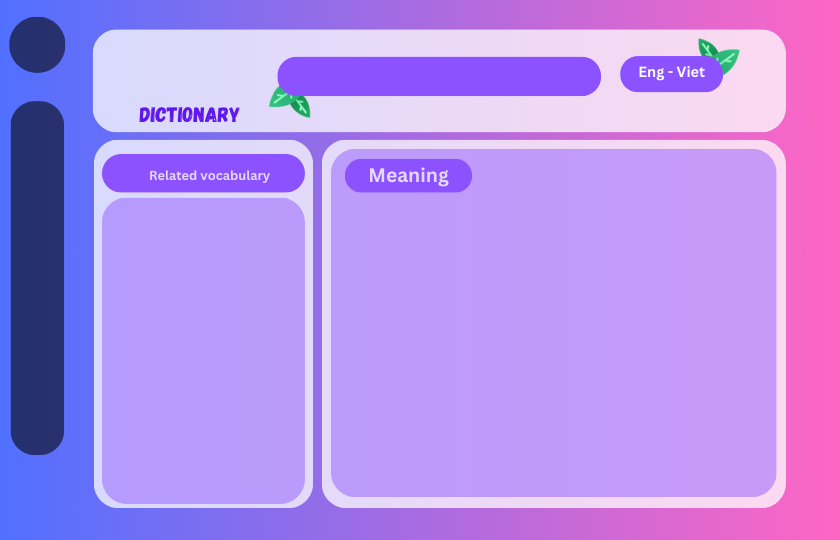
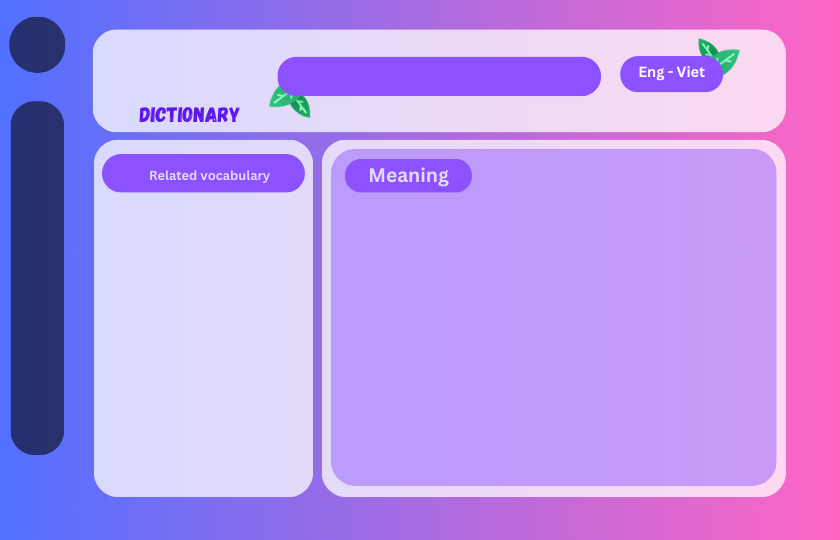
update listView

Changed region(s): [[0.0929, 0.3556, 0.9595, 0.9481]]

diff --git a/src/main/resources/application.css b/src/main/resources/application.css
@@ -162,3 +162,74 @@
 .translate_button:hover{
     -fx-background-color:#0099FF
 }
+/*------------------------list view------------------------------*/
+.list-view {
+    -fx-background-radius: 10; /* Bo tròn ở 4 góc */
+}
+
+.list-cell {
+    -fx-control-inner-background: lavender; /* Màu nền của mỗi cell trong ListView */
+    -fx-background-color:#CC99CC;
+    -fx-background-radius: 5 0 0 5; /* Bo tròn bên trái, giữ nguyên bên phải */
+}
+
+.list-cell:hover {
+    -fx-background-color: #FF9999; /* Màu nền khi di chuột qua mỗi cell */
+}
+
+.list-cell:filled:selected {
+    -fx-background-color: #FF9999; /* Màu nền khi cell được chọn */
+    -fx-text-fill: black; /* Màu chữ khi cell được chọn */
+}
+.list-cell:selected .text {
+    -fx-font-weight: bold; /* In đậm chữ khi cell được chọn */
+}
+
+.list-view:focused {
+    -fx-faint-focus-color: transparent; /* Loại bỏ viền focus khi ListView được chọn */
+}
+
+/* ScrollBar */
+.scroll-bar {
+    -fx-background-color: #CC99CC; /* Màu nền của thanh cuộn */
+    -fx-background-radius: 0 5 5 0;
+}
+
+.scroll-bar-thumb {
+    -fx-background-color: #CC99FF; /* Màu của thanh cuộn khi di chuyển */
+    -fx-background-radius: 0; /* Bo tròn ở 4 góc thanh cuộn */
+}
+
+.scroll-bar-thumb:pressed {
+    -fx-background-color: #CC66FF; /* Màu của thanh cuộn khi được nhấn */
+}
+/*-----------------------web view ----------*/
+.web-view {
+    -fx-background-color: #f0f0f0; /* Màu nền của WebView */
+}
+
+/* WebEngine Style (for the content inside WebView) */
+.web-view .root {
+    -fx-background-color: white; /* Màu nền của nội dung trong WebView */
+    -fx-border-color: #cccccc; /* Màu viền của nội dung trong WebView */
+
+    -fx-border-radius: 5; /* Độ cong của góc viền */
+}
+
+/* ScrollBar Style */
+.web-view .scroll-bar {
+    -fx-background-color: transparent; /* Màu nền thanh cuộn */
+}
+
+.web-view .scroll-bar-thumb {
+    -fx-background-color: #666666; /* Màu của thanh cuộn khi di chuyển */
+    -fx-background-radius: 5; /* Độ cong của góc thanh cuộn */
+}
+
+.web-view .scroll-bar-thumb:pressed {
+    -fx-background-color: #444444; /* Màu của thanh cuộn khi được nhấn */
+}
+
+.web-view .scroll-bar-thumb:hover {
+    -fx-background-color: #888888; /* Màu của thanh cuộn khi di chuột qua */
+}

diff --git a/src/main/java/com/example/jdictionaryev1/HelloController.java b/src/main/java/com/example/jdictionaryev1/HelloController.java
@@ -187,6 +187,7 @@ public class HelloController extends DictionaryManagement {
             alert.show();
         }
         listVocab.setOnMouseClicked(event2 -> {
+            view.setVisible(true);
             String selectedItem = listVocab.getSelectionModel().getSelectedItem();
             e = view.getEngine();
             if (selectedItem != null) {
